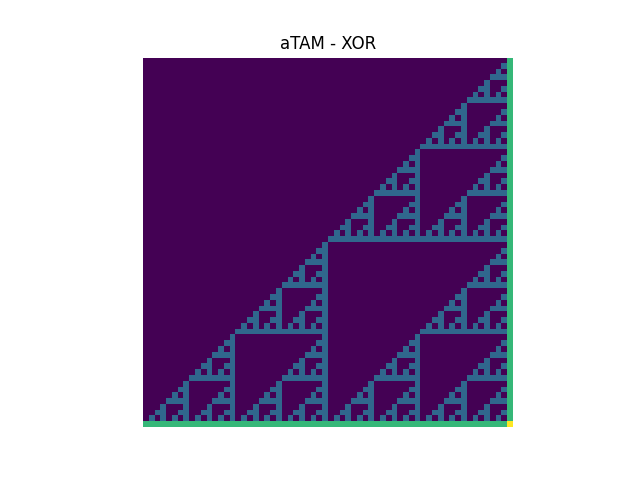
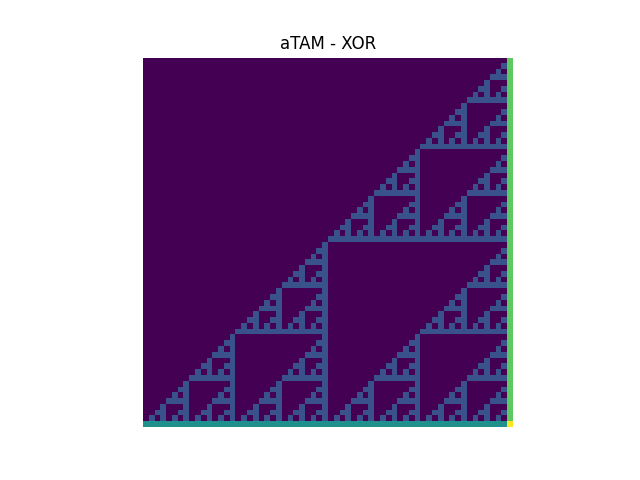
some refactoring

Changed region(s): [[0.2188, 0.125, 0.8125, 0.9062]]

diff --git a/src/atam/__init__.py b/src/atam/__init__.py
@@ -1,8 +1,9 @@
 
-from typing import Callable
+from typing import Callable, List
 from dataclasses import dataclass
 
 import numpy as np
+import matplotlib.pyplot as plt
 
 
 @dataclass
@@ -11,31 +12,25 @@ class Tile:
     down: int
     left: int
     right: int
-    colour: str
+    value: int
 
 
-def seed() -> Tile:
-    return Tile(2, -1, 2, -1, "3")
-
-def north() -> Tile:
-    return Tile(2, 2, 1, -1, "2")
-
-def west() -> Tile:
-    return Tile(1, -1, 2, 2, "2")
-
-
-def create_tile_grid(dim: int, func: Callable[[int, int], Tile]) -> np.ndarray:
+def create_tile_grid(dim: int, func: Callable[[Tile, Tile], Tile]) -> np.ndarray:
     tiles = np.empty((dim, dim), dtype=object)
 
-    for row in range(dim):
-        for col in range(dim):
-            if row + col == 0:
-                tiles[0, 0] = seed()
-            elif row == 0:
-                tiles[0, col] = west()
-            elif col == 0:
-                tiles[row, 0] = north()
-            else:
-                tiles[row, col] = func(tiles[row - 1][col].up, tiles[row][col - 1].left)
+    tiles[0,  0] = Tile(2, -1, 2, -1, 4)
+    tiles[1:, 0] = Tile(2,  2, 1, -1, 3)
+    tiles[0, 1:] = Tile(1, -1, 2,  2, 2)
+
+    for row in range(1, dim):
+        for col in range(1, dim):
+            tiles[row, col] = func(tiles[row - 1][col], tiles[row][col - 1])
 
     return tiles
+
+
+def create_plot(values: List[List[int]], title: str, path: str) -> None:
+    plt.title(title)
+    plt.imshow(values, interpolation="none")
+    plt.gca().set_axis_off()
+    plt.savefig(path)

diff --git a/src/atam/experiment_counter.py b/src/atam/experiment_counter.py
@@ -1,24 +1,19 @@
 
-from atam import Tile, create_tile_grid
-
-import matplotlib.pyplot as plt
+from atam import Tile, create_tile_grid, create_plot
 
 
-def counter_tile(up: int, right: int) -> Tile:
-    if up + right == 1:
-        return Tile(1, up, 0, right, "1")
-    elif up + right == 2:
-        return Tile(0, up, 1, right, "0")
+def counter_tile(below: Tile, before: Tile) -> Tile:
+    if below.up + before.left == 1:
+        return Tile(1, below.up, 0, before.left, 1)
+    elif below.up + before.left == 2:
+        return Tile(0, below.up, 1, before.left, 0)
     else:
-        return Tile(0, up, 0, right, "0")
+        return Tile(0, below.up, 0, before.left, 0)
 
 
 def main() -> None:
-    dim = 65
+    dim    = 64
+    tiles  = create_tile_grid(dim, counter_tile)
+    values = [[tile.value for tile in row[::-1]] for row in tiles[::-1]]
 
-    values = [[int(tile.colour) for tile in row[::-1]] for row in create_tile_grid(dim, counter_tile)[::-1]]
-
-    plt.title("aTAM - Binary Counter")
-    plt.imshow(values, interpolation="none")
-    plt.gca().set_axis_off()
-    plt.savefig("./output/atam/experiment_counter.png")
+    create_plot(values, "aTAM - Counter", "./output/atam/experiment_counter.png")

diff --git a/src/atam/experiment_xor.py b/src/atam/experiment_xor.py
@@ -1,22 +1,17 @@
 
-from atam import Tile, create_tile_grid
-
-import matplotlib.pyplot as plt
+from atam import Tile, create_tile_grid, create_plot
 
 
-def xor_tile(up: int, right: int) -> Tile:
-    if up + right == 1:
-        return Tile(1, up, 1, right, "1")
+def xor_tile(below: Tile, before: Tile) -> Tile:
+    if below.up + before.left == 1:
+        return Tile(1, below.up, 1, before.left, 1)
     else:
-        return Tile(0, up, 0, right, "0")
+        return Tile(0, below.up, 0, before.left, 0)
 
 
 def main() -> None:
-    dim = 64
+    dim    = 64
+    tiles  = create_tile_grid(dim, xor_tile)
+    values = [[tile.value for tile in row[::-1]] for row in tiles[::-1]]
 
-    values = [[int(tile.colour) for tile in row[::-1]] for row in create_tile_grid(dim, xor_tile)[::-1]]
-
-    plt.title("aTAM - XOR")
-    plt.imshow(values, interpolation="none")
-    plt.gca().set_axis_off()
-    plt.savefig("./output/atam/experiment_xor.png")
+    create_plot(values, "aTAM - XOR", "./output/atam/experiment_xor.png")
